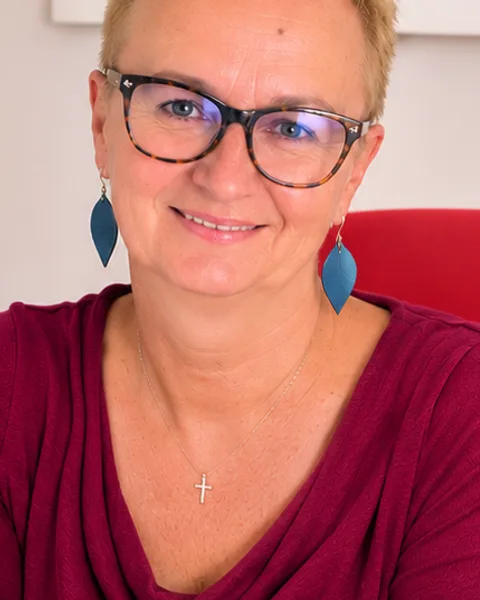
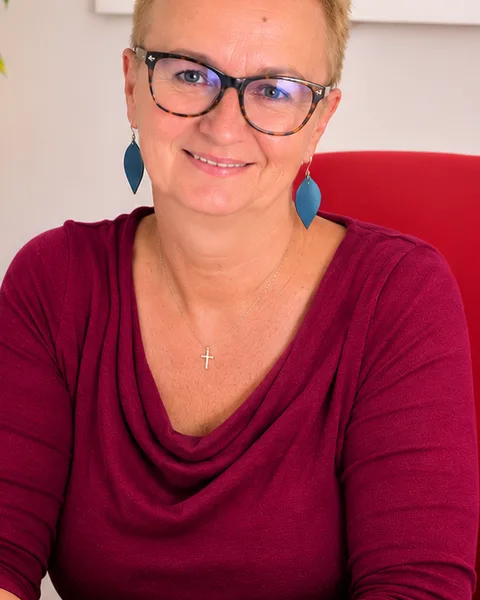
fix(rolunk): Rumi Edina's portrait cropped wider, the face smaller (Edina 11-13, Péter 15363) (#44)
Edina asked in her letter of 11-13: "Az én portrém nem lehetne kisebb?" The card cut close: the face
filled about 57% of the width, against about 41% on Pohánka Edit's card.

- Re-cropped from the Drive original (Rumi Edina.png, 1087x1447): 580x725 from (297, 518), scaled to
  480x600 webp, metadata stripped. The face is now about 43% of the width, close to Edit's.
- The top still starts below the poster text (it ends near y 512), so the garbled poster words and the
  "TÁMOGA..." fragment stay out. The cost: the top of the hair is cut. Her whole head with air above it
  only fits with the poster words in the frame (see the PR).

diff --git a/src/content/csapat.ts b/src/content/csapat.ts
@@ -25,7 +25,9 @@ export const CSAPAT: readonly CsapatTag[] = [
     nev: 'Rumi Edina',
     szerep: 'Alapítványi munkatárs',
     forras: 'Edina 2026-11-08-i levele (Marveen 6928)',
-    // Drive "2. Portrék" / Rumi Edina.png, cropped below the poster's garbled words (Péter 14680)
+    // Drive "2. Portrék" / Rumi Edina.png, cropped below the poster's garbled words (Péter 14680).
+    // 2026-11-13 Edina asked for a smaller face: a wider 580x725 crop from (297, 518), the face about as wide
+    // as on Edit's card. The top stays below the poster text, so the top of the hair is cut (Péter 15363).
     foto: '/csapat/rumi-edina.webp',
     publikus: true,
   },
